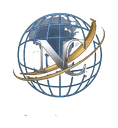
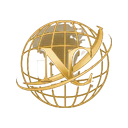
fix(assets): normalize entity emblems - square canvas, gold duotone, equal optical margins
- management/association/consultancy emblems were 440x327, 440x360, 405x440
  with uneven ink margins (management had 0px bottom margin, so the emblem
  was visually clipped inside the 16:9 .emblem card)
- recolored every emblem to the site gold ramp (#6e4f16 -> #d9a441 -> #f7e2ad)
  so all three entities match the brand palette instead of mixed blue/steel
- re-rendered on a 440/128/640 square canvas with alpha, ink box centered and
  336/96/488 px optical size, so object-fit:contain renders identically
- 640 variants flattened onto black for the .logo-card on entity pages
- cache-bust bumped to v=5 on all five pages

diff --git a/nagasaribu-website-v2/index.html b/nagasaribu-website-v2/index.html
@@ -171,9 +171,9 @@ footer{background:#040a15;color:#a9bccf;padding:56px 0 30px;font-size:13.5px}foo
 <div class="logo-rule"></div>
 </div>
 <div class="logo-list">
-<a class="logo-item" href="management"><img src="assets/nagasaribu-management-icon-128.webp?v=4" width="46" height="46" alt="" aria-hidden="true"><span><b>MANAGEMENT</b><span>Contracting • Supply • Workforce</span></span></a>
-<a class="logo-item" href="consultancy"><img src="assets/nagasaribu-consultancy-icon-128.webp?v=4" width="46" height="46" alt="" aria-hidden="true"><span><b>CONSULTANCY</b><span>Marketing | Consulting | Growth</span></span></a>
-<a class="logo-item" href="association"><img src="assets/nagasaribu-association-icon-128.webp?v=4" width="46" height="46" alt="" aria-hidden="true"><span><b>ASSOCIATION</b><span>Networking • Partnership</span></span></a>
+<a class="logo-item" href="management"><img src="assets/nagasaribu-management-icon-128.webp?v=5" width="46" height="46" alt="" aria-hidden="true"><span><b>MANAGEMENT</b><span>Contracting • Supply • Workforce</span></span></a>
+<a class="logo-item" href="consultancy"><img src="assets/nagasaribu-consultancy-icon-128.webp?v=5" width="46" height="46" alt="" aria-hidden="true"><span><b>CONSULTANCY</b><span>Marketing | Consulting | Growth</span></span></a>
+<a class="logo-item" href="association"><img src="assets/nagasaribu-association-icon-128.webp?v=5" width="46" height="46" alt="" aria-hidden="true"><span><b>ASSOCIATION</b><span>Networking • Partnership</span></span></a>
 </div>
 </div>
 </div>
@@ -213,14 +213,14 @@ footer{background:#040a15;color:#a9bccf;padding:56px 0 30px;font-size:13.5px}foo
 <section id="businesses" aria-labelledby="businesses-title" style="background:#fff;border-top:1px solid var(--line);border-bottom:1px solid var(--line)"><div class="wrap">
 <div class="eyebrow">OUR BUSINESSES</div><h2 class="title serif reveal" id="businesses-title">Three Entities. One Ecosystem.</h2>
 <div class="grid3" style="margin-top:24px">
-<div class="card reveal"><div class="emblem"><img src="assets/nagasaribu-management-icon-440.webp?v=4" width="220" height="132" alt="NAGASARIBU MANAGEMENT emblem" loading="lazy" decoding="async"></div><div class="pill">CONTRACTING • SUPPLY • WORKFORCE</div><h3>NAGASARIBU MANAGEMENT</h3><p>Construction, supply, workforce & technical solutions.</p><div class="svc" style="grid-template-columns:1fr 1fr">
+<div class="card reveal"><div class="emblem"><img src="assets/nagasaribu-management-icon-440.webp?v=5" width="220" height="132" alt="NAGASARIBU MANAGEMENT emblem" loading="lazy" decoding="async"></div><div class="pill">CONTRACTING • SUPPLY • WORKFORCE</div><h3>NAGASARIBU MANAGEMENT</h3><p>Construction, supply, workforce & technical solutions.</p><div class="svc" style="grid-template-columns:1fr 1fr">
 <div><div class="num">01</div><b>Contracting</b><p>Building, renovation, civil works</p></div>
 <div><div class="num">02</div><b>Supply</b><p>Materials, hardware, equipment</p></div>
 <div><div class="num">03</div><b>Workforce</b><p>Manpower supply & management</p></div>
 <div><div class="num">04</div><b>Technical</b><p>Electrical, plumbing, HVAC</p></div>
 </div><p style="margin-top:12px;font-size:12.5px">📍 No. 2–105, Jalan Prima SG 3/2, Batu Caves, Selangor</p><a class="learnmore" href="management">More on Management →</a></div>
-<div class="card reveal"><div class="emblem"><img src="assets/nagasaribu-association-icon-440.webp?v=4" width="220" height="132" alt="NAGASARIBU ASSOCIATION emblem" loading="lazy" decoding="async"></div><div class="pill">LEADERSHIP • UNITY • INTEGRITY</div><h3>NAGASARIBU ASSOCIATION</h3><p>Business community — networking, connections & partnerships.</p><div class="memberbox"><p class="motto">BERUSAHA FISABILILLAH, BERJAYA BIZNILLAH</p><p class="price-soft">RM300 <small>/ year</small></p><a class="btn btn-gold" href="#contact" data-service="Membership">JOIN ASSOCIATION</a></div><a class="learnmore" href="association" style="margin-top:14px">More on Association →</a></div>
-<div class="card reveal"><div class="emblem"><img src="assets/nagasaribu-consultancy-icon-440.webp?v=4" width="220" height="132" alt="NAGASARIBU CONSULTANCY emblem" loading="lazy" decoding="async"></div><div class="pill">STRATEGY • SOLUTION • SUCCESS</div><h3>NAGASARIBU CONSULTANCY</h3><p>Business, marketing & digital consultancy for growth & expansion.</p><div class="svc" style="grid-template-columns:1fr 1fr">
+<div class="card reveal"><div class="emblem"><img src="assets/nagasaribu-association-icon-440.webp?v=5" width="220" height="132" alt="NAGASARIBU ASSOCIATION emblem" loading="lazy" decoding="async"></div><div class="pill">LEADERSHIP • UNITY • INTEGRITY</div><h3>NAGASARIBU ASSOCIATION</h3><p>Business community — networking, connections & partnerships.</p><div class="memberbox"><p class="motto">BERUSAHA FISABILILLAH, BERJAYA BIZNILLAH</p><p class="price-soft">RM300 <small>/ year</small></p><a class="btn btn-gold" href="#contact" data-service="Membership">JOIN ASSOCIATION</a></div><a class="learnmore" href="association" style="margin-top:14px">More on Association →</a></div>
+<div class="card reveal"><div class="emblem"><img src="assets/nagasaribu-consultancy-icon-440.webp?v=5" width="220" height="132" alt="NAGASARIBU CONSULTANCY emblem" loading="lazy" decoding="async"></div><div class="pill">STRATEGY • SOLUTION • SUCCESS</div><h3>NAGASARIBU CONSULTANCY</h3><p>Business, marketing & digital consultancy for growth & expansion.</p><div class="svc" style="grid-template-columns:1fr 1fr">
 <div><div class="num">01</div><b>Business</b><p>Strategy & optimisation</p></div>
 <div><div class="num">02</div><b>Marketing</b><p>Digital, branding, leads</p></div>
 <div><div class="num">03</div><b>Digital & AI</b><p>Websites, automation, AI</p></div>
@@ -245,7 +245,7 @@ footer{background:#040a15;color:#a9bccf;padding:56px 0 30px;font-size:13.5px}foo
 <div class="card"><div class="plogo soon">COMING<br>SOON</div><div class="pill">COMING SOON</div><h3>Workforce Ecosystem</h3><p>Digital ecosystem for workforce, business & service management.</p><a class="learnmore" href="#contact" data-service="Workforce">Register interest →</a></div>
 </div>
 <div style="margin-top:18px">
-<div class="member"><div style="display:flex;gap:12px;align-items:center;position:relative;z-index:2"><img class="mlogo" src="assets/nagasaribu-association-icon-128.webp?v=4" width="56" height="56" alt="NAGASARIBU ASSOCIATION logo" loading="lazy" decoding="async"><div><div style="font-size:11px;letter-spacing:2px;color:var(--gold2)">PREMIUM • SECURE • CONNECTED</div><b>NAGASARIBU ASSOCIATION</b></div></div><div style="margin-top:14px;position:relative;z-index:2"><span class="sample-chip">SAMPLE — FOR ILLUSTRATION ONLY</span><br>MEMBER: SAMPLE MEMBER • ID: SAMPLE-000 • VALID: ISSUED AFTER APPROVAL<br>“Together Towards Greater Opportunities”<br>BERUSAHA FISABILILLAH, BERJAYA BIZNILLAH<br><br><a class="btn btn-gold" href="#contact" data-service="Membership">JOIN — RM300 / YEAR</a> <a class="btn btn-ghost" style="margin-top:10px" href="member-card">VIEW SAMPLE CARD</a></div></div>
+<div class="member"><div style="display:flex;gap:12px;align-items:center;position:relative;z-index:2"><img class="mlogo" src="assets/nagasaribu-association-icon-128.webp?v=5" width="56" height="56" alt="NAGASARIBU ASSOCIATION logo" loading="lazy" decoding="async"><div><div style="font-size:11px;letter-spacing:2px;color:var(--gold2)">PREMIUM • SECURE • CONNECTED</div><b>NAGASARIBU ASSOCIATION</b></div></div><div style="margin-top:14px;position:relative;z-index:2"><span class="sample-chip">SAMPLE — FOR ILLUSTRATION ONLY</span><br>MEMBER: SAMPLE MEMBER • ID: SAMPLE-000 • VALID: ISSUED AFTER APPROVAL<br>“Together Towards Greater Opportunities”<br>BERUSAHA FISABILILLAH, BERJAYA BIZNILLAH<br><br><a class="btn btn-gold" href="#contact" data-service="Membership">JOIN — RM300 / YEAR</a> <a class="btn btn-ghost" style="margin-top:10px" href="member-card">VIEW SAMPLE CARD</a></div></div>
 </div></div></section>
 
 <section id="process" aria-labelledby="process-title" style="background:#fff;border-top:1px solid var(--line)"><div class="wrap reveal">

diff --git a/nagasaribu-website-v2/consultancy.html b/nagasaribu-website-v2/consultancy.html
@@ -57,7 +57,7 @@ footer{background:#040a15;color:#a9bccf;padding:44px 0;font-size:13.5px}footer a
 <div class="card"><div class="num">06</div><h3>Platforms &amp; International</h3><p>Digital platforms and cross-border connectivity for expansion.</p></div>
 </div>
 <div class="disclaimer" role="note"><b>Important:</b> NAGASARIBU is not a bank and does not claim any direct banking relationship. Accounts are provided via WorldFirst; availability is subject to WorldFirst onboarding and approval. See the <a href="/#finance" style="color:#0047b3;font-weight:700">Finance section</a> for details.</div>
-<div class="card logo-card" style="margin-top:18px"><img src="assets/nagasaribu-consultancy-640.webp?v=3" width="400" height="400" alt="NAGASARIBU CONSULTANCY logo" loading="lazy" decoding="async"><p style="margin-top:12px"><a class="btn btn-gold" href="/?service=Business%20Consultancy#contact">BOOK CONSULTATION — RM100/SESSION</a></p><p style="margin-top:10px">Part of the <a href="./" style="color:#0047b3;font-weight:700">NAGASARIBU ecosystem</a>.</p></div>
+<div class="card logo-card" style="margin-top:18px"><img src="assets/nagasaribu-consultancy-640.webp?v=5" width="400" height="400" alt="NAGASARIBU CONSULTANCY logo" loading="lazy" decoding="async"><p style="margin-top:12px"><a class="btn btn-gold" href="/?service=Business%20Consultancy#contact">BOOK CONSULTATION — RM100/SESSION</a></p><p style="margin-top:10px">Part of the <a href="./" style="color:#0047b3;font-weight:700">NAGASARIBU ecosystem</a>.</p></div>
 </div></section>
 </main>
 <footer><div class="wrap"><a href="./">← Back to nagasaribu.online</a> &nbsp;•&nbsp; <a href="mailto:sales@nagasaribu.online">sales@nagasaribu.online</a><br>© 2026 NAGASARIBU • BERUSAHA FISABILILLAH, BERJAYA BIZNILLAH</div></footer>

diff --git a/nagasaribu-website-v2/association.html b/nagasaribu-website-v2/association.html
@@ -52,7 +52,7 @@ footer{background:#040a15;color:#a9bccf;padding:44px 0;font-size:13.5px}footer a
 <div class="card"><h3>Partnerships</h3><p>Build connections and partnerships within one ecosystem of three entities.</p></div>
 <div class="card"><div class="price">RM300 <small style="font-size:14px;color:var(--mut)">/ year</small></div><p style="margin-top:8px"><a class="btn btn-gold" href="/?service=Membership#contact">JOIN ASSOCIATION</a></p></div>
 </div>
-<div class="card logo-card" style="margin-top:18px"><img src="assets/nagasaribu-associations-640.webp?v=3" width="400" height="400" alt="NAGASARIBU ASSOCIATION logo" loading="lazy" decoding="async"><p style="margin-top:12px"><a class="btn btn-blue" href="member-card">VIEW SAMPLE VIRTUAL CARD</a></p><p style="margin-top:10px">Part of the <a href="./" style="color:#0047b3;font-weight:700">NAGASARIBU ecosystem</a>.</p></div>
+<div class="card logo-card" style="margin-top:18px"><img src="assets/nagasaribu-associations-640.webp?v=5" width="400" height="400" alt="NAGASARIBU ASSOCIATION logo" loading="lazy" decoding="async"><p style="margin-top:12px"><a class="btn btn-blue" href="member-card">VIEW SAMPLE VIRTUAL CARD</a></p><p style="margin-top:10px">Part of the <a href="./" style="color:#0047b3;font-weight:700">NAGASARIBU ecosystem</a>.</p></div>
 </div></section>
 </main>
 <footer><div class="wrap"><a href="./">← Back to nagasaribu.online</a> &nbsp;•&nbsp; <a href="mailto:sales@nagasaribu.online">sales@nagasaribu.online</a><br>© 2026 NAGASARIBU • BERUSAHA FISABILILLAH, BERJAYA BIZNILLAH</div></footer>

diff --git a/nagasaribu-website-v2/management.html b/nagasaribu-website-v2/management.html
@@ -53,7 +53,7 @@ footer{background:#040a15;color:#a9bccf;padding:44px 0;font-size:13.5px}footer a
 <div class="card"><div class="num">03</div><h3>Workforce</h3><p>Manpower supply &amp; management across Malaysia and Indonesia.</p><a class="btn btn-blue" style="margin-top:14px" href="/?service=Workforce#contact">Enquire — Workforce</a></div>
 <div class="card"><div class="num">04</div><h3>Technical</h3><p>Electrical, plumbing and HVAC works and support.</p><a class="btn btn-blue" style="margin-top:14px" href="/?service=Contracting#contact">Enquire — Technical</a></div>
 </div>
-<div class="card logo-card" style="margin-top:18px"><img src="assets/nagasaribu-management-640.webp?v=3" width="400" height="400" alt="NAGASARIBU MANAGEMENT logo" loading="lazy" decoding="async"><p style="margin-top:10px">Part of the <a href="./" style="color:#0047b3;font-weight:700">NAGASARIBU ecosystem</a> alongside Consultancy and Association.</p></div>
+<div class="card logo-card" style="margin-top:18px"><img src="assets/nagasaribu-management-640.webp?v=5" width="400" height="400" alt="NAGASARIBU MANAGEMENT logo" loading="lazy" decoding="async"><p style="margin-top:10px">Part of the <a href="./" style="color:#0047b3;font-weight:700">NAGASARIBU ecosystem</a> alongside Consultancy and Association.</p></div>
 </div></section>
 </main>
 <footer><div class="wrap"><a href="./">← Back to nagasaribu.online</a> &nbsp;•&nbsp; <a href="mailto:sales@nagasaribu.online">sales@nagasaribu.online</a><br>© 2026 NAGASARIBU • BERUSAHA FISABILILLAH, BERJAYA BIZNILLAH</div></footer>

diff --git a/nagasaribu-website-v2/member-card.html b/nagasaribu-website-v2/member-card.html
@@ -66,7 +66,7 @@ h1{font-family:"Playfair Display",serif;font-size:clamp(24px,4vw,36px);margin:8p
 <div class="scene" id="scene" title="Tap to flip">
 <div class="card3d">
 <div class="face front">
-<div class="top"><img src="assets/nagasaribu-association-icon-128.webp?v=4" width="58" height="58" alt="NAGASARIBU ASSOCIATION logo"><div><small>PREMIUM • SECURE • CONNECTED</small><b>NAGASARIBU ASSOCIATION</b></div></div>
+<div class="top"><img src="assets/nagasaribu-association-icon-128.webp?v=5" width="58" height="58" alt="NAGASARIBU ASSOCIATION logo"><div><small>PREMIUM • SECURE • CONNECTED</small><b>NAGASARIBU ASSOCIATION</b></div></div>
 <div class="mid">MEMBER: <b>SAMPLE MEMBER</b> • ID: <b>SAMPLE-000</b> • VALID: <b>AFTER APPROVAL</b><br><span class="tagline">“Together Towards Greater Opportunities”</span><br><span class="arab">BERUSAHA FISABILILLAH, BERJAYA BIZNILLAH</span></div>
 <div><a class="btn" href="/?service=Membership#contact">JOIN — RM300 / YEAR</a></div>
 </div>
